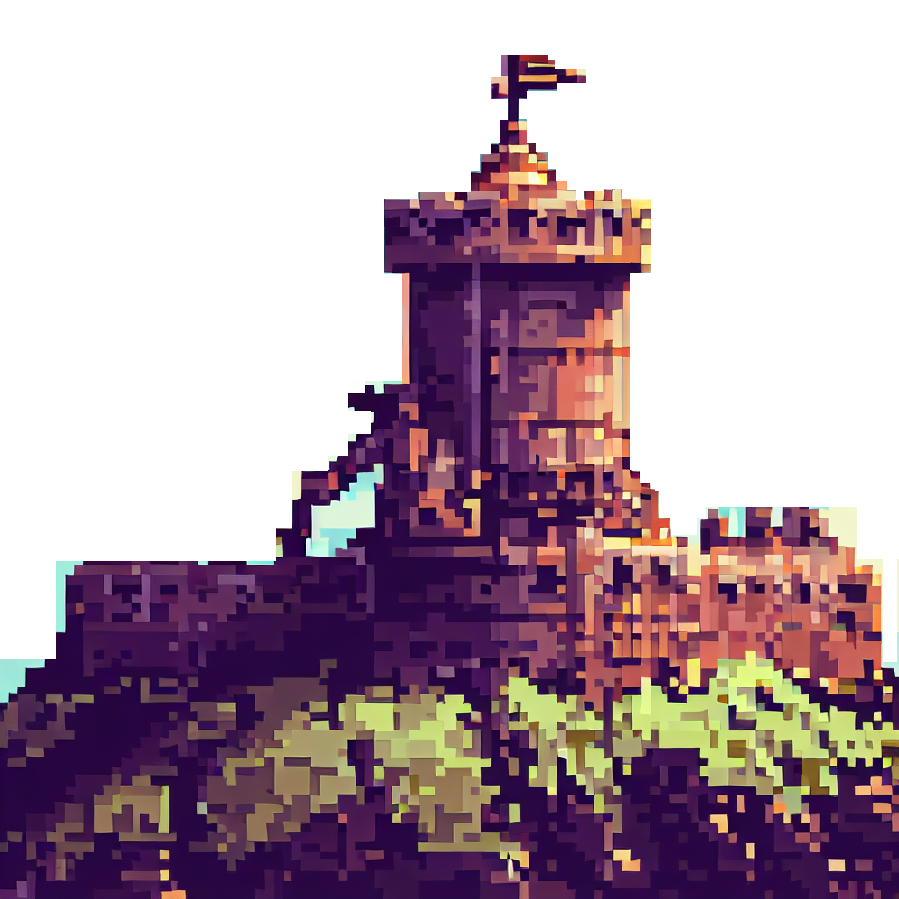
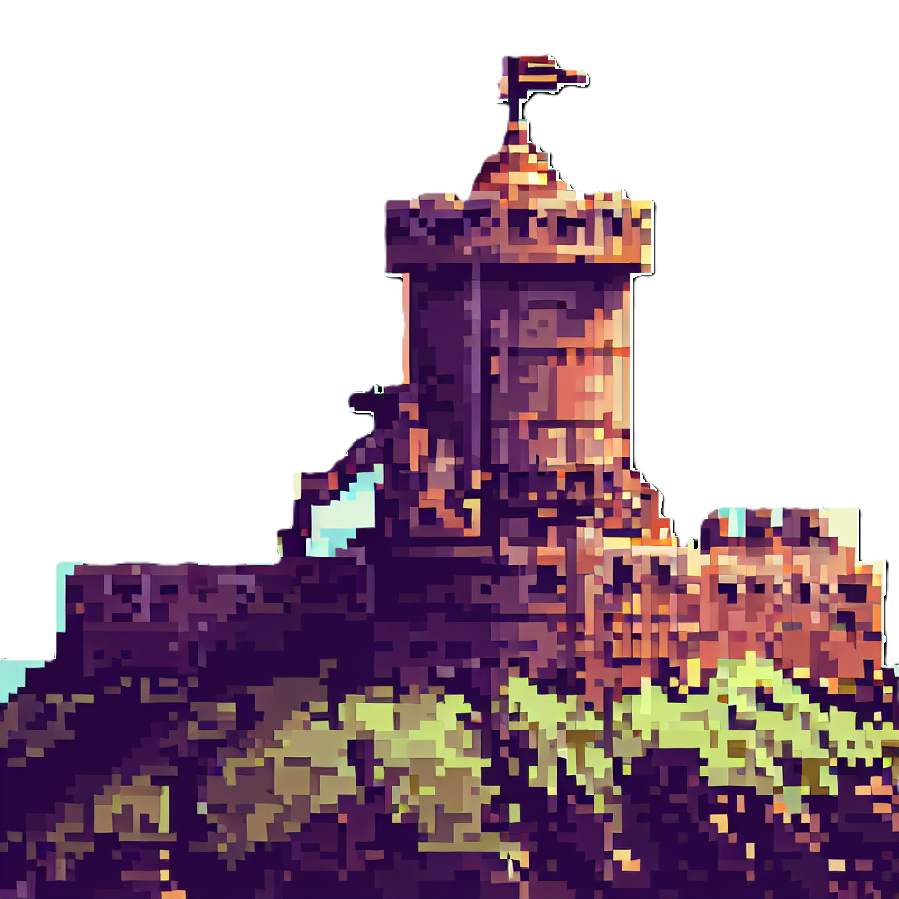
moved most functions inside the game UI function. stable game, next creat lose/win conditions

diff --git a/JS/app.js b/JS/app.js
@@ -36,6 +36,8 @@ createGameUI = (topSpacerElement) => {//this holds most of the game
     let playerHP = 100
     let computerHP = 100
     const maxHP = 100
+
+
     const playerHPElement = document.createElement(`h1`)
     const computerHPElement = document.createElement(`h1`)
     const attackButton = document.createElement(`button`)
@@ -45,18 +47,24 @@ createGameUI = (topSpacerElement) => {//this holds most of the game
     repairButton.innerHTML = `Repair!`
     playerHPElement.innerHTML = `${playerHP}`
     computerHPElement.innerHTML = `${computerHP}`
+    attackButton.classList = (`button`)
+    repairButton.classList = (`button`)
+    topSpacerElement.classList = (`gameMenuContainer`)
+
     topSpacerElement.appendChild(playerHPElement)
     topSpacerElement.appendChild(computerHPElement)
     topSpacerElement.appendChild(attackButton)
     topSpacerElement.appendChild(repairButton)
     
+    console.dir(topSpacerElement)
     
     // Event listeners for game state========================================================
     attackButton.addEventListener(`click`, () => {
         console.log(`attack button test`)
-        computerHP -= damage()
-        computerHPElement.innerHTML = computerHP
-        computerAction(computerHP, computerHPElement, playerHP, playerHPElement)
+        computerHP -= damage();
+        if (computerHP < 0) computerHP = 0
+        computerHPElement.innerHTML = computerHP;
+        computerAction()
     })
     repairButton.addEventListener(`click`, () => {
         console.log(`repair button test`)
@@ -65,9 +73,49 @@ createGameUI = (topSpacerElement) => {//this holds most of the game
             playerHP = maxHP
         }
         playerHPElement.innerHTML = playerHP
+        computerAction()
     })
-
+    
     // functions in game UI =====================================================================================================
+    computerAction = () => {////// what do I want out of computer function: random choice of whether the computer should repair or attack. If computer HP is max, then Dont repair. 
+    
+        let computerChoice = (Math.floor(Math.random() * 2))
+        console.log(computerChoice);
+        if (playerHP === maxHP) {
+            computerAttack(playerHP, playerHPElement)
+        }
+        else if (computerChoice === 1) {
+            computerAttack(playerHP, playerHPElement)
+        }
+        else if (computerChoice === 0) {
+            computerRepair(computerHP, computerHPElement)
+        }
+    }
+    computerAttack = () => {
+        console.log(`computer is attacking`);
+        playerHP -= damage()
+        console.log(`player HP is ${playerHP}`);
+        
+        playerHPElement.innerHTML = playerHP
+    }
+    computerRepair = () => {
+        console.log(`computer is repairing`);
+        computerHP += repairNumber()
+        if (computerHP >= maxHP) computerHP = maxHP
+        computerHPElement.innerHTML = computerHP
+        
+    }
+    damage = () => {
+        let damagenum = (Math.floor(Math.random() * 8) * 3);
+        console.log(damagenum);
+        return damagenum;
+    }
+    
+    repairNumber = () => {
+        let num = (Math.floor(Math.random() * 8) * 3);
+        console.log(num);
+        return num;
+    }
 }
 startGame = () => {
     //todo// I want this to delet the menu and add the health indicators plaus the attack buttons
@@ -77,42 +125,7 @@ startGame = () => {
     mainMenuAreaElement.removeChild(mainMenuContainerElement)
     createGameUI(topSpacerElement)
 }
-computerAction = (computerHP, computerHPElement, maxHP, playerHP, playerHPElement) => {////// what do I want out of computer function: random choice of whether the computer should repair or attack. If computer HP is max, then Dont repair. 
 
-    let computerChoice = (Math.floor(Math.random) * 3)
-    console.log(computerChoice);
-    
-    // if (computerHP === maxHP) {
-    //     computerAttack(playerHP, playerHPElement)
-    // }
-    // else if () {
-
-    // }
-    
-}
-computerAttack = (playerHP, playerHPElement) => {
-    console.log(`computer is attacking`);
-    playerHP -= damage()
-    playerHPElement.innerHTML = playerHP
-}
-computerRepair = (computerHP, computerHPElement) => {
-    console.log(`computer is repairing`);
-    computerHP += repairNumber()
-    computerHPElement.innerHTML = computerHP
-
-}
-
-damage = () => {
-    let damagenum = (Math.floor(Math.random() * 8) * 3);
-    console.log(damagenum);
-    return damagenum;
-}
-
-repairNumber = () => {
-    let num = (Math.floor(Math.random() * 8) * 3);
-    console.log(num);
-    return num;
-}
 
 //event handlera==================================================================================================================
 
@@ -129,3 +142,10 @@ startGameButtonElement.addEventListener(`click`, () => {
 //Dead code==================================================================================
 // quitGame() tested
 // computerAttack(playerHP, playerHPElement)
+// if (computerHP === maxHP) {
+    //     computerAttack(playerHP, playerHPElement)
+    // }
+    // else if () {
+        
+    // }
+    // computerAttack(playerHP, playerHPElement)

diff --git a/CSS/style.css b/CSS/style.css
@@ -50,12 +50,12 @@ body {
 .castle {
     height: 50vh;
     width: 20vw;
-    background-color: black;
+    background-color: transparent;
 }
 
 #playerCastle {
-    background-color: blue;
-    background-image: url('/SRCIMG/castl1.png');
+    background-color: null;
+    background-image: url('/SRCIMG/castl1-removebg-preview.png');
     background-position: center;
     background-size: cover;
     background-repeat: no-repeat;
@@ -63,7 +63,17 @@ body {
 }
 
 #computerCastle {
-    background-color: red;
+    background-color: null;
+    background-image: url('/SRCIMG/castl1-removebg-preview.png');
+    background-position: center;
+    background-size: cover;
+    background-repeat: no-repeat;
+}
+
+.gameMenuContainer {
+    display: flex;
+    flex-direction: column;
+    
 }
 /* flex-direction: column; */
 /* justify-content: center; */
